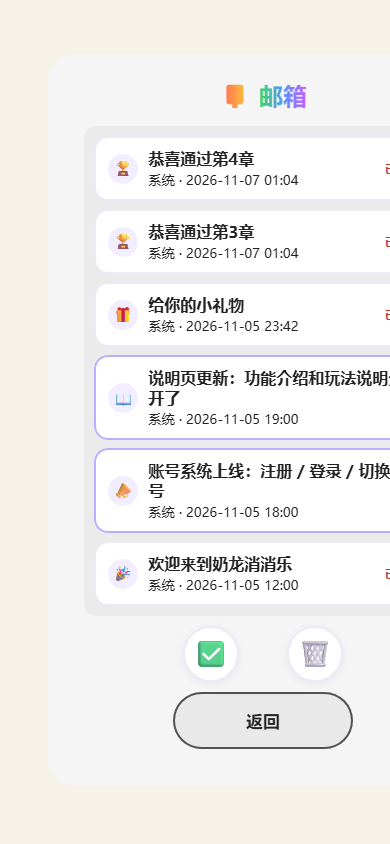
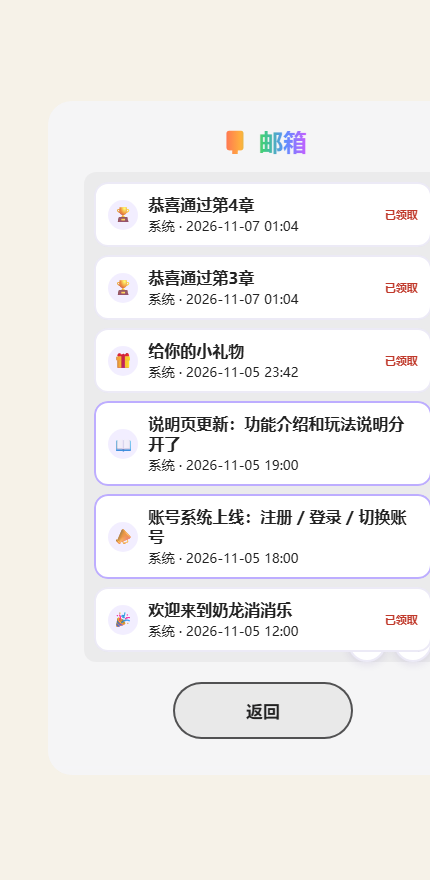
Update files

diff --git a/index.html b/index.html
@@ -12,8 +12,8 @@
 <link rel="preload" as="image" type="image/webp" href="./assets/4.webp">
 <link rel="preload" as="image" type="image/webp" href="./assets/5.webp">
 <link rel="preload" as="image" type="image/png" href="./assets/nailong.png">
-<link rel="stylesheet" href="./css/style.css?v=20261108w">
-<link rel="stylesheet" href="./css/themes.css?v=20261108w">
+<link rel="stylesheet" href="./css/style.css?v=20261108x">
+<link rel="stylesheet" href="./css/themes.css?v=20261108x">
 </head>
 <body data-theme="grass" data-view="menu">
 <div class="game-container">
@@ -439,10 +439,12 @@
   <!-- 📮 邮箱：收系统发的公告与奖励 -->
   <div class="overlay" id="mail-menu" style="display:none;">
     <h2 class="title small">📮 邮箱</h2>
-    <div class="mail-list" id="mail-list"></div>
-    <div class="mail-tools">
-      <button class="mail-emoji-btn" id="btn-mail-read-all" aria-label="全部已读">✅</button>
-      <button class="mail-emoji-btn" id="btn-mail-del-all" aria-label="删除邮件">🗑</button>
+    <div class="mail-list-wrap">
+      <div class="mail-list" id="mail-list"></div>
+      <div class="mail-tools">
+        <button class="mail-emoji-btn" id="btn-mail-read-all" aria-label="全部已读">✅</button>
+        <button class="mail-emoji-btn" id="btn-mail-del-all" aria-label="删除邮件">🗑</button>
+      </div>
     </div>
     <button class="btn-secondary" id="btn-mail-close">返回</button>
   </div>
@@ -999,22 +1001,22 @@
   </div>
 </div>
 
-<script src="./js/rng.js?v=20261108w"></script>
-<script src="./js/storage.js?v=20261108w"></script>
-<script src="./js/audio.js?v=20261108w"></script>
-<script src="./js/effects.js?v=20261108w"></script>
-<script src="./js/specials.js?v=20261108w"></script>
-<script src="./js/goals.js?v=20261108w"></script>
-<script src="./js/tasks.js?v=20261108w"></script>
-<script src="./js/mail.js?v=20261108w"></script>
-<script src="./js/input.js?v=20261108w"></script>
-<script src="./js/builtin-music.js?v=20261108w"></script>
-<script src="./js/music.js?v=20261108w"></script>
-<script src="./js/meta.js?v=20261108w"></script>
-<script src="./js/cloud-config.js?v=20261108w"></script>
-<script src="./js/cloud.js?v=20261108w"></script>
-<script src="./js/account.js?v=20261108w"></script>
-<script src="./js/board.js?v=20261108w"></script>
-<script src="./js/game.js?v=20261108w"></script>
+<script src="./js/rng.js?v=20261108x"></script>
+<script src="./js/storage.js?v=20261108x"></script>
+<script src="./js/audio.js?v=20261108x"></script>
+<script src="./js/effects.js?v=20261108x"></script>
+<script src="./js/specials.js?v=20261108x"></script>
+<script src="./js/goals.js?v=20261108x"></script>
+<script src="./js/tasks.js?v=20261108x"></script>
+<script src="./js/mail.js?v=20261108x"></script>
+<script src="./js/input.js?v=20261108x"></script>
+<script src="./js/builtin-music.js?v=20261108x"></script>
+<script src="./js/music.js?v=20261108x"></script>
+<script src="./js/meta.js?v=20261108x"></script>
+<script src="./js/cloud-config.js?v=20261108x"></script>
+<script src="./js/cloud.js?v=20261108x"></script>
+<script src="./js/account.js?v=20261108x"></script>
+<script src="./js/board.js?v=20261108x"></script>
+<script src="./js/game.js?v=20261108x"></script>
 </body>
 </html>

diff --git a/css/themes.css b/css/themes.css
@@ -2000,9 +2000,16 @@ body[data-skin="black"]   { --skin-target-bg: rgba(255, 143, 171, 0.22); }
   text-align: center;
 }
 
-.mail-list {
+.mail-list-wrap {
+  position: relative;
   width: 88%;
   max-width: 380px;
+  margin-bottom: 10px;
+}
+
+.mail-list {
+  width: 100%;
+  max-width: none;
   max-height: 68vh;
   overflow-y: auto;
   -webkit-overflow-scrolling: touch;
@@ -2072,25 +2079,24 @@ body[data-skin="black"]   { --skin-target-bg: rgba(255, 143, 171, 0.22); }
 
 .mail-del:active { background: #e64545; }
 
-/* 邮箱底部：只留 ✅ / 🗑 两个圆按钮（勾勾在左、垃圾桶在右） */
+/* 邮箱底部：只留 ✅ / 🗑 两个小圆钮，悬浮在滚动区右下角 */
 .mail-tools {
+  position: absolute;
+  right: 10px;
+  bottom: 10px;
   display: flex;
-  justify-content: center;
-  gap: 48px;
-  width: 88%;
-  max-width: 380px;
-  margin-bottom: 10px;
+  gap: 8px;
 }
 
 .mail-emoji-btn {
   flex: 0 0 auto;
-  width: 56px;
-  height: 56px;
+  width: 38px;
+  height: 38px;
   border-radius: 50%;
   border: 2px solid #eceaf6;
   background: #fff;
-  box-shadow: 0 2px 8px rgba(80, 60, 140, 0.08);
-  font-size: 26px;
+  box-shadow: 0 2px 8px rgba(80, 60, 140, 0.14);
+  font-size: 18px;
   line-height: 1;
   cursor: pointer;
   padding: 0;

diff --git a/test-smoke.js b/test-smoke.js
@@ -498,13 +498,15 @@ function check(name, ok) {
   })());
   check('登录其它账号（文案已改且是蓝键）',
     htmlSrc0.includes('class="btn-primary" id="btn-switch-login">登录其它账号</button>'));
-  check('邮箱底部只留 ✅ / 🗑 两个圆按钮（不带文字），滑动区加高', (() => {
+  check('邮箱底部只留 ✅ / 🗑 两个小圆钮，悬浮在滚动区右下角', (() => {
     const sec = htmlSrc0.slice(htmlSrc0.indexOf('id="mail-list"'), htmlSrc0.indexOf('id="btn-mail-close"'));
     return /class="mail-emoji-btn" id="btn-mail-read-all"[^>]*>✅</.test(sec) &&
       /class="mail-emoji-btn" id="btn-mail-del-all"[^>]*>🗑</.test(sec) &&
       !sec.includes('一键已读') && !sec.includes('一键删除') &&
+      htmlSrc0.includes('<div class="mail-list-wrap">') &&
       /\.mail-list\s*\{[^}]*max-height:\s*68vh/.test(cssSrc) &&
-      /\.mail-emoji-btn\s*\{[^}]*border-radius:\s*50%/.test(cssSrc);
+      /\.mail-tools\s*\{[^}]*position:\s*absolute[^}]*right:\s*10px[^}]*bottom:\s*10px/.test(cssSrc) &&
+      /\.mail-emoji-btn\s*\{[^}]*width:\s*38px[^}]*height:\s*38px/.test(cssSrc);
   })());
   check('切换账号 / 存档码是蓝键',
     htmlSrc0.includes('class="btn-primary" id="btn-goto-switch"') &&

diff --git a/_preview/mail-tools.html b/_preview/mail-tools.html
@@ -8,10 +8,12 @@
 </style></head><body>
 <div class="overlay" id="mail-menu">
   <h2 class="title small">📮 邮箱</h2>
-  <div class="mail-list" id="mail-list"></div>
-  <div class="mail-tools">
-    <button class="mail-emoji-btn" id="btn-mail-read-all" aria-label="全部已读">✅</button>
-    <button class="mail-emoji-btn" id="btn-mail-del-all" aria-label="删除邮件">🗑</button>
+  <div class="mail-list-wrap">
+    <div class="mail-list" id="mail-list"></div>
+    <div class="mail-tools">
+      <button class="mail-emoji-btn" id="btn-mail-read-all" aria-label="全部已读">✅</button>
+      <button class="mail-emoji-btn" id="btn-mail-del-all" aria-label="删除邮件">🗑</button>
+    </div>
   </div>
   <button class="btn-secondary" id="btn-mail-close">返回</button>
 </div>
